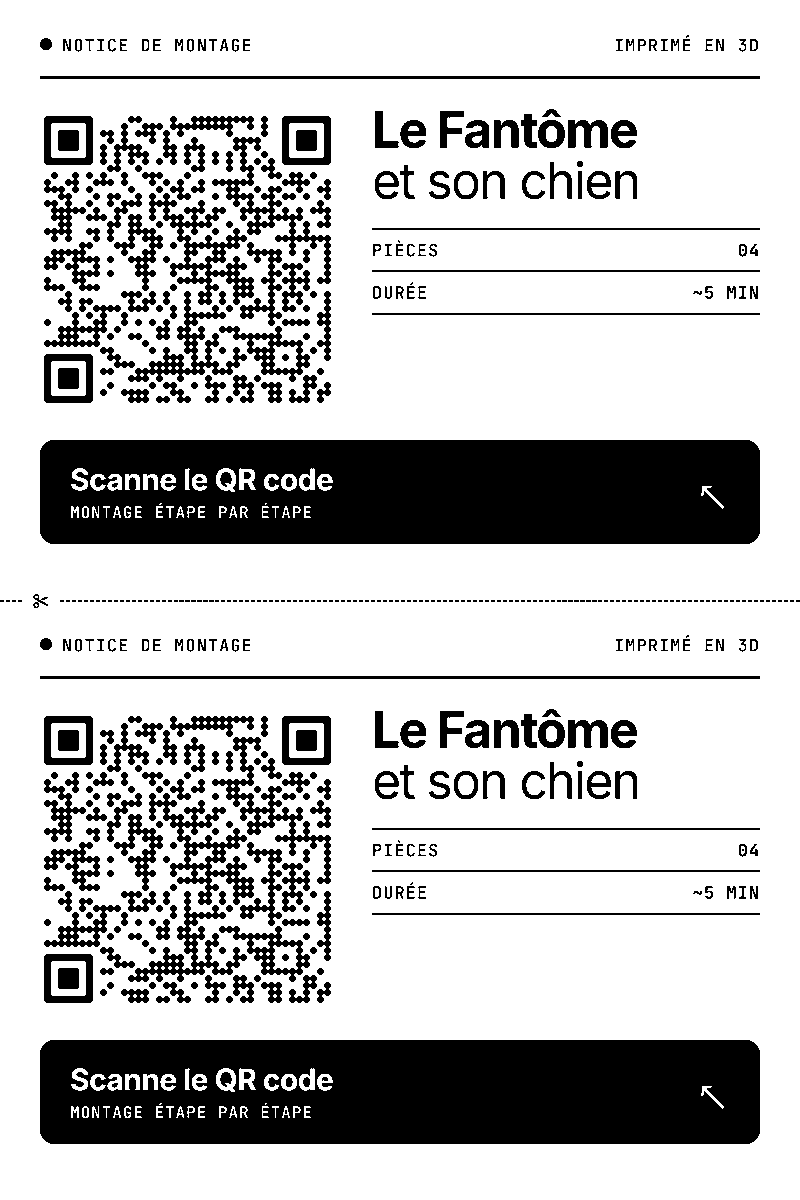
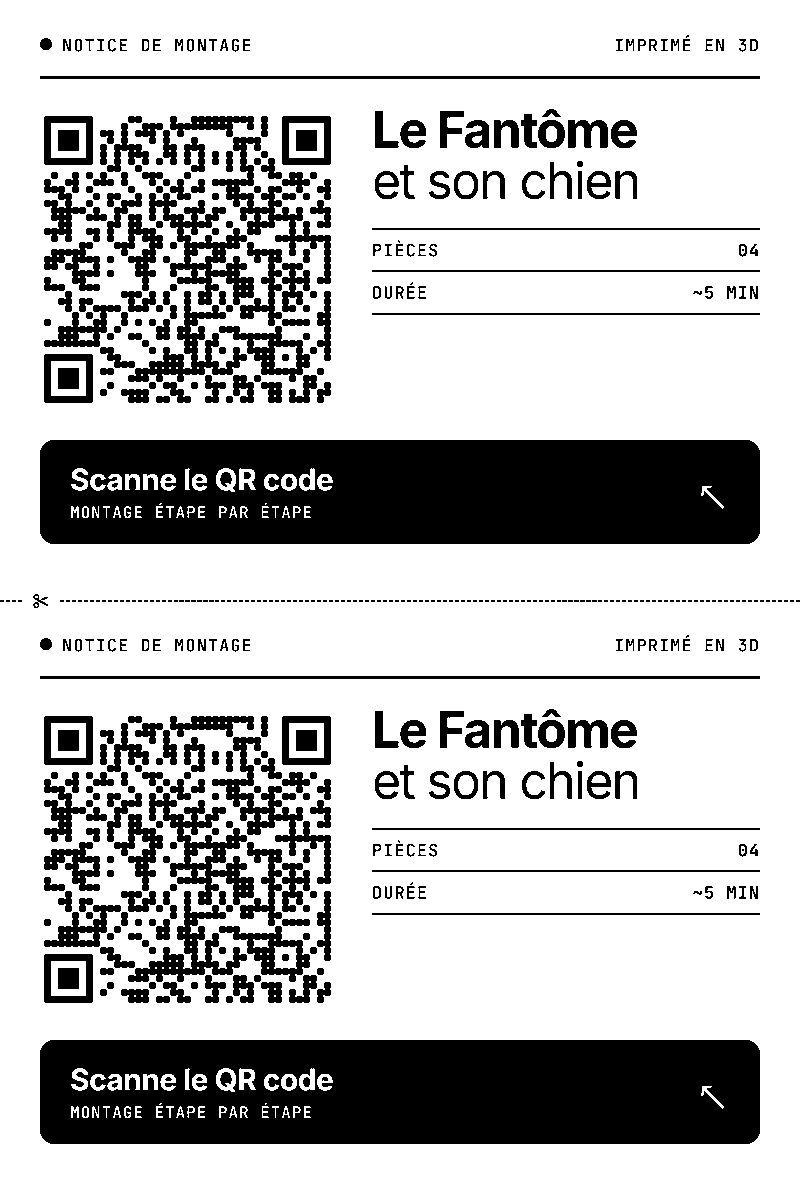
QR plus robuste : modules jointifs et coins moins arrondis

diff --git a/outils/etiquette_qr.py b/outils/etiquette_qr.py
@@ -110,13 +110,13 @@ def render_qr(url):
     for r in range(n):
         for c in range(n):
             if m[r][c] and not in_finder(r, c):
-                g = u * 0.06
+                g = 0  # modules jointifs : plus robuste si l'impression sort pâle
                 d.rounded_rectangle((c * u + g, r * u + g, (c + 1) * u - g, (r + 1) * u - g), radius=u * 0.32, fill=0)
     for fr, fc in finders:
         x, y = fc * u, fr * u
-        d.rounded_rectangle((x, y, x + 7 * u - 1, y + 7 * u - 1), radius=u * 0.6, fill=0)
-        d.rounded_rectangle((x + u, y + u, x + 6 * u - 1, y + 6 * u - 1), radius=u * 0.4, fill=255)
-        d.rounded_rectangle((x + 2 * u, y + 2 * u, x + 5 * u - 1, y + 5 * u - 1), radius=u * 0.26, fill=0)
+        d.rounded_rectangle((x, y, x + 7 * u - 1, y + 7 * u - 1), radius=u * 0.3, fill=0)
+        d.rounded_rectangle((x + u, y + u, x + 6 * u - 1, y + 6 * u - 1), radius=u * 0.2, fill=255)
+        d.rounded_rectangle((x + 2 * u, y + 2 * u, x + 5 * u - 1, y + 5 * u - 1), radius=u * 0.13, fill=0)
     small = big.resize((n * px, n * px), Image.LANCZOS)
     return small.point(lambda p: 255 if p > 128 else 0).convert("1")
 
